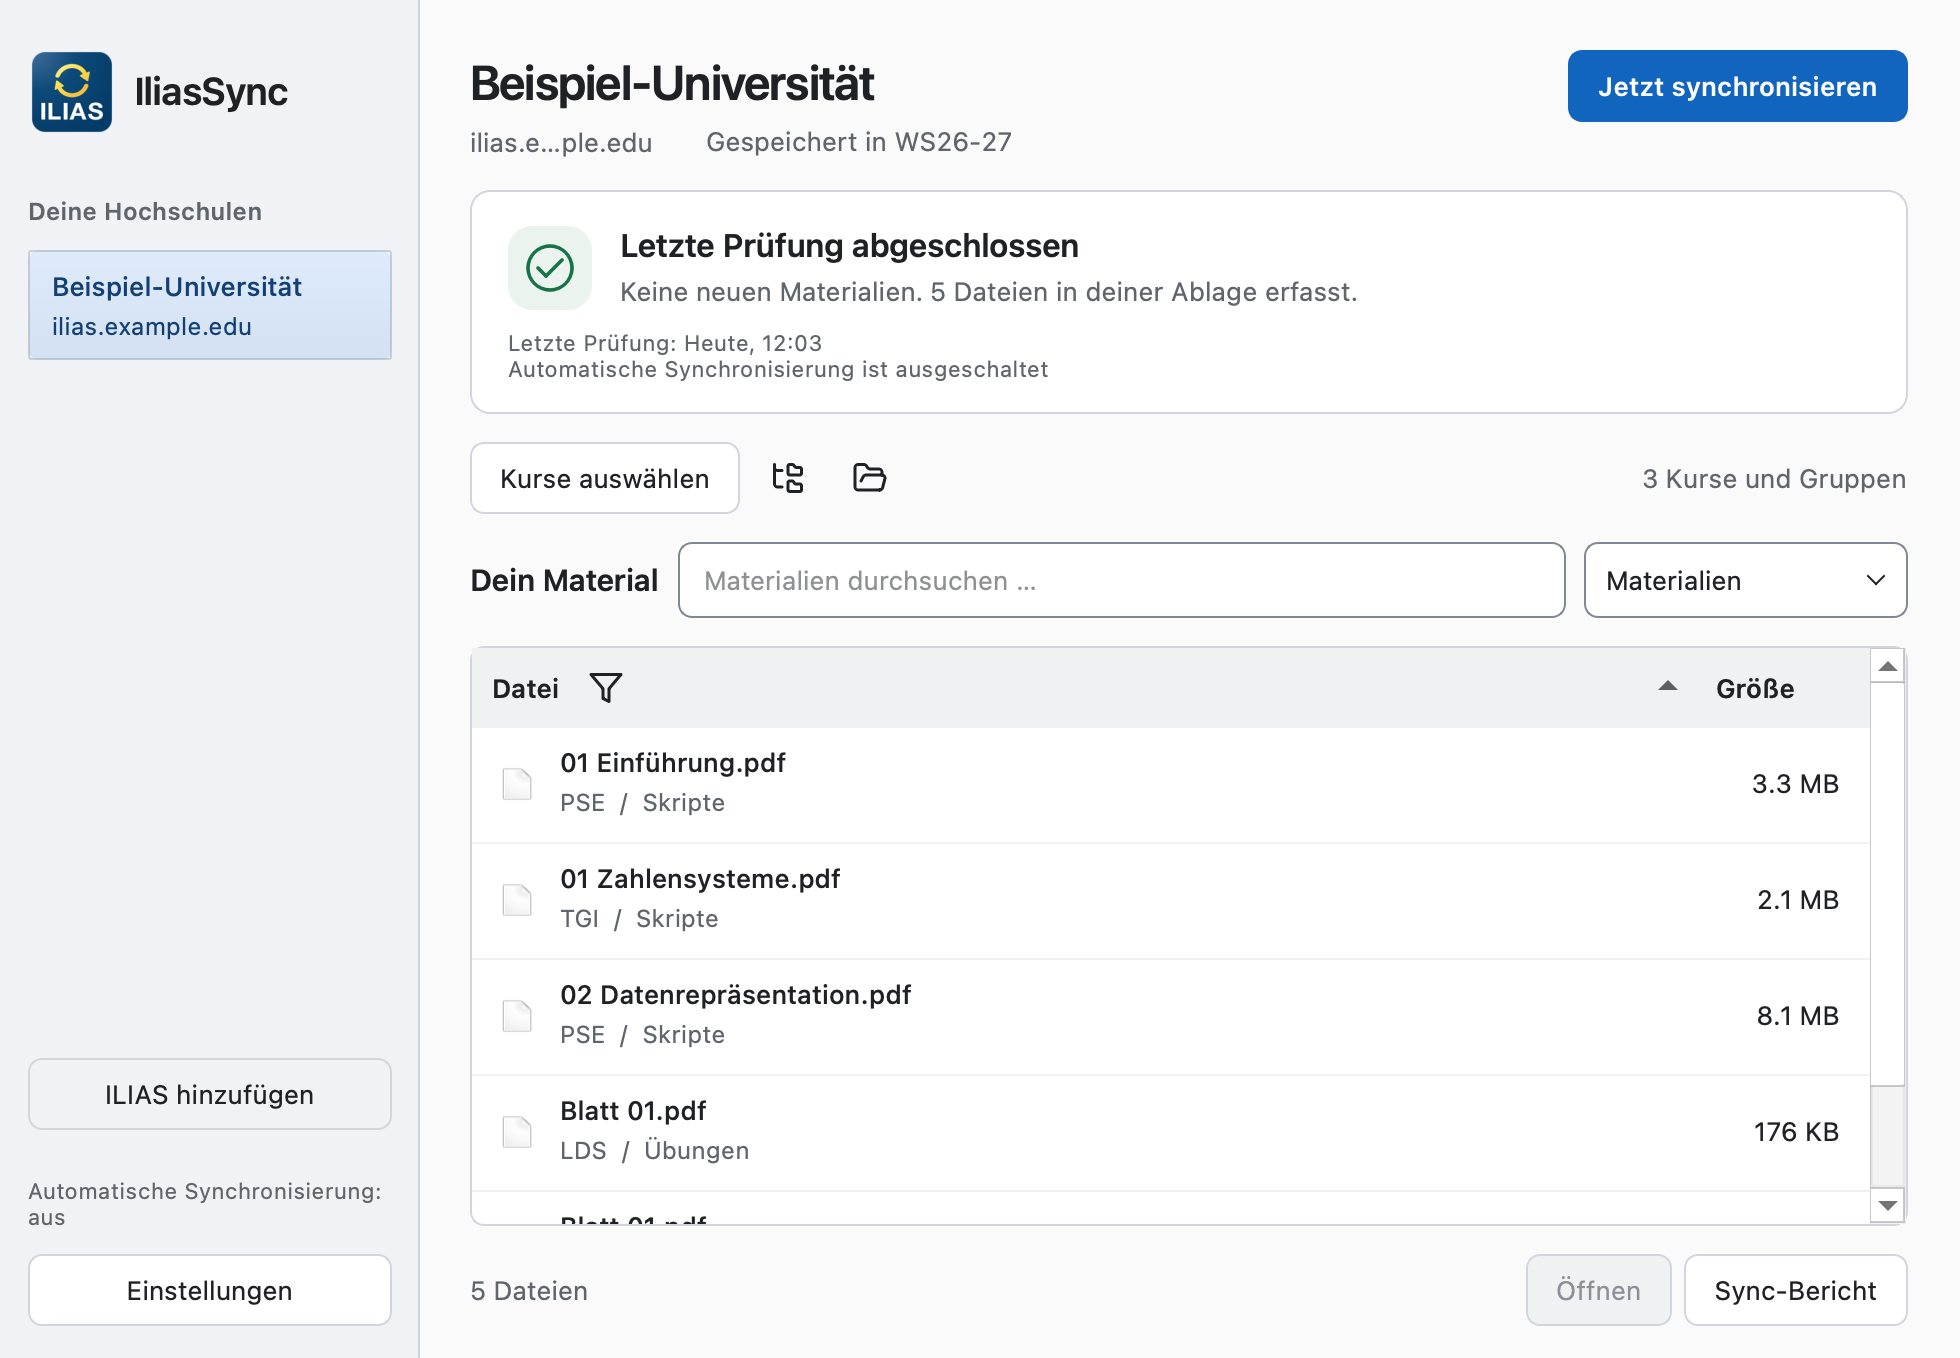
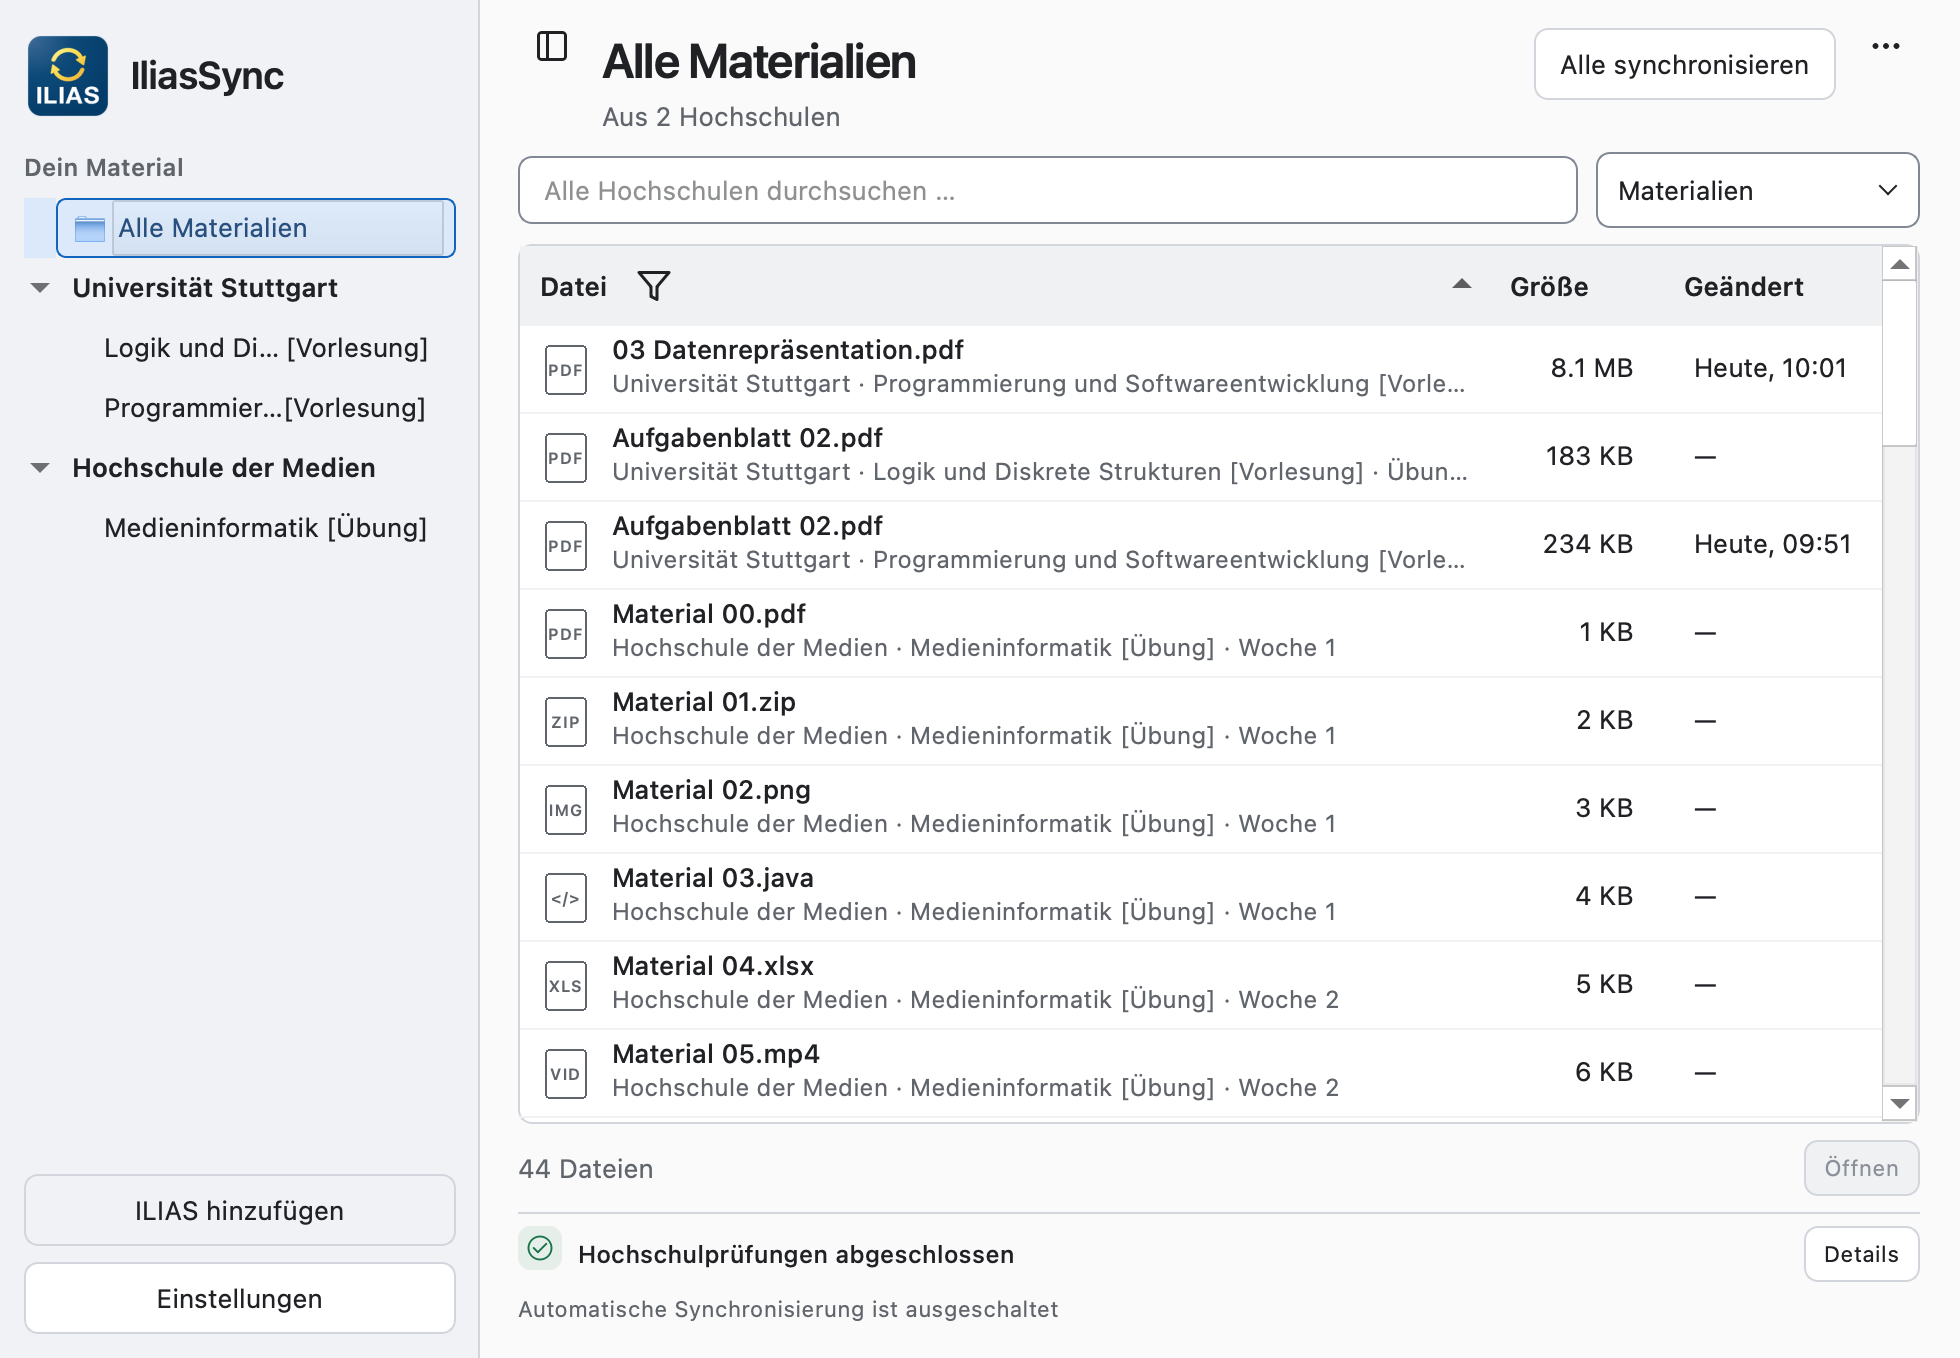
Record installed library build, recovery acceptance and preservation evidence

diff --git a/docs/VERIFICATION.md b/docs/VERIFICATION.md
@@ -99,3 +99,39 @@ Cancel returned to the library. After these checks, settings remained byte-ident
 all 66 recorded file hashes matched, with no missing files. The preceding app bundle remains a recoverable local backup.
 GitHub issues #1/#3 contain the local implementation evidence; #2 records the isolated prototype and owner/agent method.
 They stay open for integration/remaining explicit gates. No push, merge or release was performed.
+
+## Material-first library and guided recovery — 29 October 2026
+
+The integrated source passed **231 tests in 13.90 seconds**, including the loopback HTTP integration suite.
+Ruff and whitespace checks passed. The renderer covered **87 synthetic interface states**, including 820×560,
+980×700 and 1280×800 shared libraries, individual courses, type filters, inline error details, and focused sign-in
+renewal in both palettes. At the standard test font, the unchanged library fits at least 5/9/11 complete material
+rows at those heights. Expanded reports intentionally use part of that space and remain scrollable.
+
+New regressions cover colliding source/course/object identities, custom destination roots, global course filtering,
+pointer and arrow-key navigation in Qt tests, preserved selection through refresh, navigation during work,
+enabled-source batching/stop, scope persistence and compact geometry. Recovery tests cover cancelled correction,
+required fresh sign-in input, automatic verification after Save, successful versus failed/stale verification, later
+failures replacing earlier repair confirmation, warning preservation, a file still missing after a successful crawl,
+and keeping the failed file as the action's subject after another row is selected. Exact legacy authentication
+messages pause scheduled retry consistently with the UI. Unknown exception text does not establish a cause.
+
+A synthetic 5,000-file/two-university benchmark measured first paint **0.355 s**, search **0.018 s** and course
+navigation **0.047 s** (single local run, not a live sync or an energy/participant measurement). Classifying file
+icons does not open materials or hydrate cloud placeholders.
+
+Final installed package: **`51b1e3440881-50624687621d`**, built from clean source revision
+`51b1e34408811e44179532f740f64d288f05ec44`. Its source fingerprint matches the current implementation; the
+packaged and installed offline self-tests and strict ad-hoc signature verification passed. The preceding app bundles
+are retained privately under `.local/library-ui-native-20261029/`.
+
+Native inspection in this session's preceding package verified the material-first library with the actual expired
+session, the direct Renew sign-in action, focused secure password field, visible step guidance, fresh-input validation,
+and Cancel returning to the unchanged library. No credential was entered and no live authenticated check was run.
+The Mac locked during the final course-pointer check. Therefore the final build's native course/report walkthrough
+remains unobserved; automated Qt pointer/keyboard tests and the installed Cocoa offline self-test passed. No spoken
+VoiceOver, native Windows/Linux or additional external participant test is claimed.
+
+The user's current settings (including their daily schedule) remained byte-identical, and SHA-256 comparisons of all
+**66 existing archive files** found no missing or modified files after installation and native cancellation. Private
+snapshots and the comparison receipt are excluded from Git. No push, merge or release was performed.

diff --git a/README.md b/README.md
@@ -33,7 +33,7 @@ Die Oberfläche startet auf Deutsch. Unter **Einstellungen → Allgemein** kanns
 
 ## Entwicklungsstand und veröffentlichtes Paket
 
-Die hier beschriebenen neuen Ordner-, Filter-, Tageszeitplan- und Berichtsabläufe gehören zum lokalen Entwicklungsstand. Der Downloadlink führt weiterhin zum veröffentlichten Alpha 2 vom 22.10.2026. Diese Arbeit wurde nicht gepusht oder als Release veröffentlicht. Neue lokale Pakete zeigen unter **Hilfe & Über IliasSync** eine Build-Kennung aus Git-Revision und Quellfingerprint; dieselbe Kennung steht im Offline-Selbsttest und bei neu aufgezeichneten Versuchen. Die Versionsnummer `0.1.0a2` allein unterscheidet diese Pakete nicht. [Prüfnachweise](docs/VERIFICATION.md).
+Die hier beschriebenen neuen Bibliotheks-, Wiederherstellungs-, Ordner-, Filter-, Tageszeitplan- und Berichtsabläufe gehören zum lokalen Entwicklungsstand. Der Downloadlink führt weiterhin zum veröffentlichten Alpha 2 vom 22.10.2026. Diese Arbeit wurde nicht gepusht oder als Release veröffentlicht. Neue lokale Pakete zeigen unter **Hilfe & Über IliasSync** eine Build-Kennung aus Git-Revision und Quellfingerprint; dieselbe Kennung steht im Offline-Selbsttest und bei neu aufgezeichneten Versuchen. Die Versionsnummer `0.1.0a2` allein unterscheidet diese Pakete nicht. [Prüfnachweise](docs/VERIFICATION.md).
 
 ## Herunterladen
 
